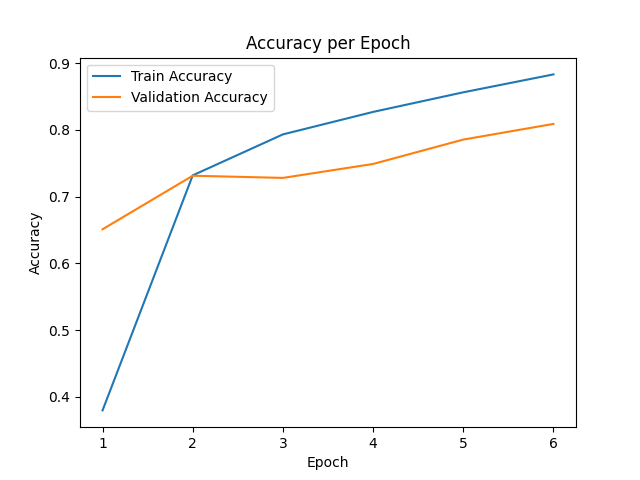
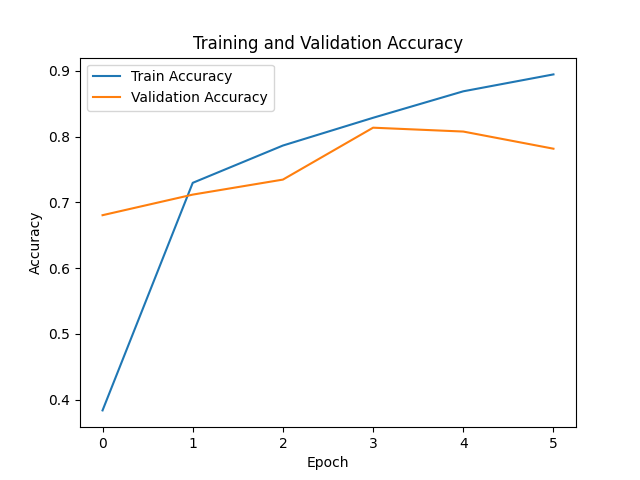
fixed bugs

diff --git a/tests/test_train.py b/tests/test_train.py
@@ -135,15 +135,12 @@ def test_dataset_loading(mock_config):
         os.remove(os.path.join(images_dir, file))
     os.rmdir(images_dir)
 
-# Mocking Hydra and wandb
+
 @patch("hydra.compose")
 @patch("hydra.initialize")
-@patch("wandb.init")
-@patch("wandb.log")
-@patch("wandb.finish")
-def test_training_loop(mock_finish, mock_log, mock_init, mock_initialize, mock_compose, mock_config):
+def test_training_loop_local(mock_initialize, mock_compose, mock_config):
     """
-    Test the training loop using mock configurations and mock datasets.
+    Test the training loop in local mode (without WandB).
     """
     # Mock Hydra behavior to use mock_config
     mock_initialize.return_value = None
@@ -151,16 +148,11 @@ def test_training_loop(mock_finish, mock_log, mock_init, mock_initialize, mock_c
 
     cfg = OmegaConf.create(mock_config)
 
-    # Run the training function
-    train(cfg, use_wandb=True)
-
-    # Verify WandB calls
-    mock_init.assert_called_once()
-    mock_log.assert_called()
-    mock_finish.assert_called_once()
+    # Run the training function in local mode
+    train(cfg, use_wandb=False)
 
     # Verify the model save path exists
-    assert os.path.exists(mock_config["hyperparameters"]["model_save_path"])
+    assert os.path.exists(mock_config["hyperparameters"]["model_save_path"]), "Model save path not found"
 
     # Verify the figure directory and files exist
     figure_dir = mock_config["hyperparameters"]["figure_save_path"]

diff --git a/src/dog_breed_classifier/train.py b/src/dog_breed_classifier/train.py
@@ -117,6 +117,37 @@ def train(cfg: DictConfig, use_wandb: bool, override_hyperparams=None):
     torch.save(model.state_dict(), model_save_path)
     print(f"Model saved to {model_save_path}")
 
+    # Generate and save plots
+    figure_save_path = cfg.hyperparameters.figure_save_path
+    os.makedirs(figure_save_path, exist_ok=True)
+
+    # Plot training and validation loss
+    plt.figure()
+    plt.plot(train_losses, label="Train Loss")
+    plt.plot(val_losses, label="Validation Loss")
+    plt.xlabel("Epoch")
+    plt.ylabel("Loss")
+    plt.legend()
+    plt.title("Training and Validation Loss")
+    loss_plot_path = os.path.join(figure_save_path, "training_loss.png")
+    plt.savefig(loss_plot_path)
+    print(f"Loss plot saved to {loss_plot_path}")
+    plt.close()
+
+    # Plot training and validation accuracy
+    plt.figure()
+    plt.plot(train_accuracies, label="Train Accuracy")
+    plt.plot(val_accuracies, label="Validation Accuracy")
+    plt.xlabel("Epoch")
+    plt.ylabel("Accuracy")
+    plt.legend()
+    plt.title("Training and Validation Accuracy")
+    acc_plot_path = os.path.join(figure_save_path, "training_accuracy.png")
+    plt.savefig(acc_plot_path)
+    print(f"Accuracy plot saved to {acc_plot_path}")
+    plt.close()
+
+
     if use_wandb:
         # Create and log artifact
         artifact = wandb.Artifact("dog-breed-classifier-model", type="model")
